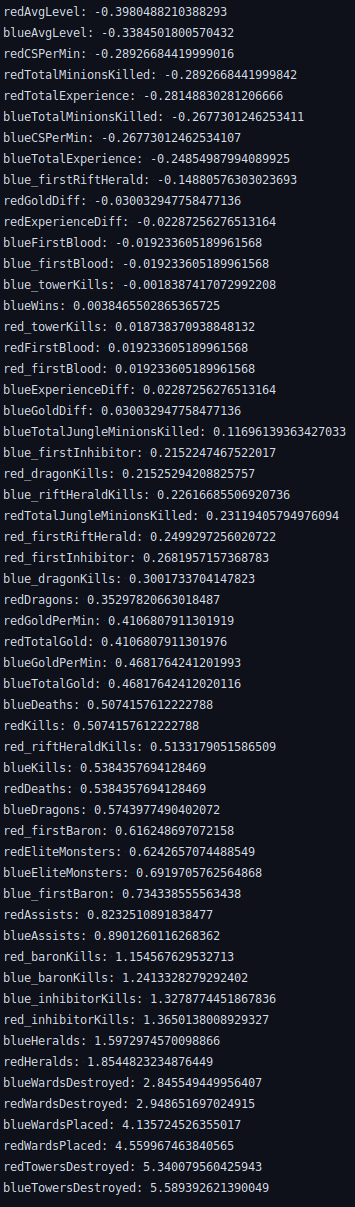
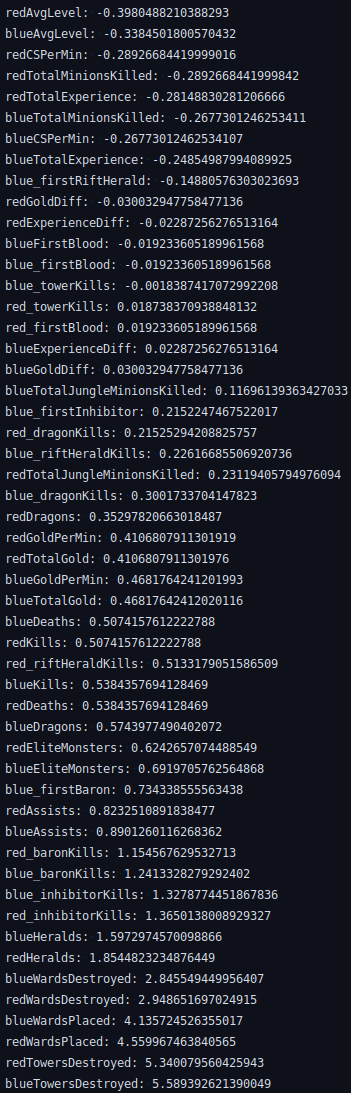
Apply MCA and PCA to reduce dimensions

diff --git a/Preprocessing.py b/Preprocessing.py
@@ -1,10 +1,16 @@
-from scipy.stats import skew
+from scipy.stats import skew, kurtosis
 
 import pandas as pd
 
 from sklearn.preprocessing import RobustScaler
 
+from sklearn.decomposition import PCA
+
+from prince import MCA
+
 import Champion
+
+import numpy as np
 
 
 def preprocess(df):
@@ -17,36 +23,84 @@ def preprocess(df):
 
     target = df['blueWins']
 
-    df.drop('blueWins', axis=1, inplace=True)
+    df.drop(['blueWins', 'redWins'], axis=1, inplace=True)
 
     for col in champ_cols:
         df[col] = Champion.get_champions(list(df[col].values))
+
     removal_list = set()
+
     for champ_col in champ_cols:
 
         for key, value in df[champ_col].value_counts(ascending=False).to_dict().items():
-            if value < 10:
+            if value < 80:
                 for i in range(10):
                     removal_list.add('ban_{}_{}'.format(i, key))
                 for i in range(5):
                     removal_list.add('blue_champ_{}_{}'.format(i, key))
                     removal_list.add('red_champ_{}_{}'.format(i, key))
 
-    encoded_df = pd.get_dummies(drop_first=False, columns=champ_cols, data=df)
+    numerical_cols = [i for i in df if df[i].dtype in ['int16', 'int32', 'int64', 'float16', 'float32', 'float64']]
+    
+    #evaluate_dist(df, numerical_cols)
 
-    print(encoded_df.shape)
-
-    encoded_df = encoded_df[encoded_df.columns[~encoded_df.columns.isin(removal_list)]]
-
-    print(encoded_df.shape)
+    cols_to_be_transformed = ['blueWardsDestroyed', 'redWardsDestroyed',
+                              'blueWardsPlaced', 'redWardsPlaced',
+                              'redTowersDestroyed', 'blueTowersDestroyed']
+    
+    for col in cols_to_be_transformed:
+        df[col] = np.log1p(df[col])
+        
+    #evaluate_dist(df, cols_to_be_transformed)
 
     df_for_scale = df[df.columns[~df.columns.isin(champ_cols)]]
 
     scaler = RobustScaler()
+    scaled_data = scaler.fit_transform(df_for_scale)
+    pca = PCA(.95)
+    pcs = pca.fit_transform(scaled_data)
 
-    scaled_df = pd.DataFrame(scaler.fit_transform(df_for_scale), columns=df_for_scale.columns)
+    pca_df = pd.DataFrame(pcs, columns=['PC_{}'.format(i) for i in range(np.size(pcs, 1))])
 
-    for col in scaled_df:
-        encoded_df[col] = scaled_df[col]
+    champ_df = df[df.columns[df.columns.isin(champ_cols)]]
+    champ_select_df = champ_df[champ_cols[:10]]
+    champ_ban_df = champ_df[champ_cols[11:]]
 
-    return encoded_df, target
+    mca_ban = MCA(n_components=5)
+    mca_select = MCA(n_components=3)
+
+    ban_mca = mca_ban.fit_transform(champ_ban_df)
+    select_mca = mca_select.fit_transform(champ_select_df)
+
+    ban_mca.columns = ['MCA_Ban_{}'.format(i) for i in range(np.size(ban_mca, 1))]
+    select_mca.columns = ['MCA_Select_{}'.format(i) for i in range(np.size(select_mca, 1))]
+
+    reduced_df = pd.concat([ban_mca, select_mca, pca_df], axis=1)
+
+    print(reduced_df)
+
+    return reduced_df, target
+
+
+def evaluate_dist(df, cols):
+    champ_cols = ['blue_champ_1', 'blue_champ_2', 'blue_champ_3', 'blue_champ_4', 'blue_champ_5',
+                  'red_champ_1', 'red_champ_2', 'red_champ_3', 'red_champ_4', 'red_champ_5', 'ban_1',
+                  'ban_2', 'ban_3', 'ban_4', 'ban_5', 'ban_6', 'ban_7', 'ban_8', 'ban_9', 'ban_10']
+    kurtosis_results = dict()
+    skewness = dict()
+
+    for i in cols:
+        if i not in champ_cols:
+            kurtosis_results[i] = kurtosis(df[i])
+            skewness[i] = skew(df[i])
+    
+    kurtosis_results = {k: v for k, v in sorted(kurtosis_results.items(), key=lambda item: item[1])}
+    skewness = {k: v for k, v in sorted(skewness.items(), key=lambda item: item[1])}
+
+    print('Skewness:\n')
+    [print("{}: {}".format(i, skewness[i])) for i in skewness]
+
+    print('\nKurtosis:\n')
+    [print("{}: {}".format(i, kurtosis_results[i])) for i in kurtosis_results]
+
+    print("\n\n")

diff --git a/machine_learning/XGBoost.py b/machine_learning/XGBoost.py
@@ -15,9 +15,10 @@ def run_xgboost(df, target):
         'n_jobs': [-1]
 
     }
-    model = XGBClassifier(tree_method='gpu_hist', gpu_id=0)
+
+    model = XGBClassifier(tree_method='gpu_hist')
     grid = GridSearchCV(estimator=model, param_grid=params, cv=5, verbose=3, scoring='accuracy')
-    
+
     grid.fit(df, target)
     print(grid.best_params_)
     with open('Data/pickles/xgboost_model', 'wb') as file:

diff --git a/README.md b/README.md
@@ -212,11 +212,54 @@ I would first like to try removing a certain amount of champions that are hardly
 ##### After One Hot Encoding  
 ![image](Charts/beforeChampReduction.png)
 
-##### After Removing champions selected < 15 times
+##### After Removing champions selected < 15 times  
 ![image](Charts/AfterChampReduction.png)
 
 So not bad, but the dimensionality is still really high. I may just try it anyways to see if PCA improves our results or worsens.
 
+## Reducing Dimensionality  
+
+After 3 days of training, I decided that the dimensions of the data were too high to continue and required research on how to handle this situation.
+
+I began by looking into Logistic PCA, but unfortunately there are no Python packages for that. I would've made one myself had I known Linear Algebra (haven't taken that course yet, but soon I will)
+
+I then looked into MCA, which deals with nominal values in data. I read some papers to grasp an understanding of Multiple Correspondence Analysis and decided this would be my approach to reducing the dimensionality of my data.
+
+I plan to do a grid search on optimal components for MCA, but for now I am deciding to do 5 components for both champion selections (red and blue) and ban selections.
+
+On top of this, I will experiment with applying log1p and PCA to my continuous data related columns to see how that effects the accuracy.
+
+### After Applying MCA and PCA  
+My dataframe now has the dimensions of 9879 x 29. This is a considerable improvement and the training process should be much quicker now.
+
+### Normalizing Continuous Data
+Since PCA assumes Gaussian, I am going to apply log1p transformations to the features with high skew values.
+
+#### Skewness
+![image](Charts/skewness.png)
+
+The only features that will require transformations are blue/redWardsPlaced and blue/redTowersDestroyed.
+
+#### Kurtosis
+![image](Charts/Kurtosis.png)  
+The same features that are very skewed also have high kurtosis.
+
+#### After Log1p
+![image](Charts/AfterLog1p.png)  
+I would've liked blue/redTowers to be a little lower, but it should be OK.
+The log transformation helped lower the Kurtosis score, but outliers are still very present in towers destroyed. 
+
+This is fine though, as the reason for the outliers is that many times, no towers are destroyed within the first 10 min. That means that if one tower is destroyed, it is significant regarding whether a team wins or not.
+
 ## XGBoost Classifier
 
 Work in progress 
+
+# Sources
+
+[Multiple Corresdondence Analysis](https://www.researchgate.net/profile/Dominique_Valentin/publication/239542271_Multiple_Correspondence_Analysis/links/54a979900cf256bf8bb95c95.pdf) by Hervé Abdi & Dominique Valentin
+
+[Variable Extractions using Principal Components
+Analysis and Multiple Correspondence Analysis for
+Large Number of Mixed Variables Classification
+Problems](https://s3.amazonaws.com/academia.edu.documents/50782331/GJPAM_Published.pdf?response-content-disposition=inline%3B%20filename%3DVariable_Extractions_using_Principal_Com.pdf&X-Amz-Algorithm=AWS4-HMAC-SHA256&X-Amz-Credential=ASIATUSBJ6BAG7F36CVX%2F20200530%2Fus-east-1%2Fs3%2Faws4_request&X-Amz-Date=20200530T070022Z&X-Amz-Expires=3600&X-Amz-SignedHeaders=host&X-Amz-Security-Token=IQoJb3JpZ2luX2VjEKX%2F%2F%2F%2F%2F%2F%2F%2F%2F%2FwEaCXVzLWVhc3QtMSJHMEUCIQD3gSoTHQ63nANvvqMflElvp2TbA9R7XSTkFbbPulMQ6QIgQgPJBUDeT5o%2BJsw5Pc7J7jWr4s38dLlCHw%2B1a8XY%2BAMqvQMI%2Fv%2F%2F%2F%2F%2F%2F%2F%2F%2F%2FARAAGgwyNTAzMTg4MTEyMDAiDKwvShduLVGpTOEQUSqRA4XRIgf7eWeKKhYlHQzWolE5Vk1g9dfu73310GIKNjPIPqN5ocYMMnsJJkSPha4Cpbab41m6x3hIxjstzVkMBf8qa65WEE7vJA%2BWtPfntmgNieznvvb8fdEiEPjjwmHlFbbRDVw8WVboG5CvCBV2En1f3Audu1%2BVvOr3x6wfS1uJSQVPjYFP2cXkIr3wIJBDhqjWQZfl36pNHR%2BU2z5pTrn8jgQ0lgkiw%2Bnp01hJqnc3CsteBLcES5J1TgfPkBnBF2VfQECRuYejOkzyhq%2F8fsvP%2BIbEisjuzDiTgHqeWwIs%2BCXlZsiJLR1OK2iEd2hMl0gzUDXxl2yoqmkpv83AUchh%2BtORGjTJE7yA26MSX57aqeGZz%2Fqf1kj4Hj8pW4B7%2FUUcPXhpQ5ryDYKzyYtULzDCRQpif%2FjBUr1bZFj48jeIUY5bppEvyGsF8YJ5YiAS13jRysxz7FPG8XjoQm8%2BR84uYJqLsbNhBb0N3XMrisJ89er2DOg8iuoMH%2FWWBXIsdRjkFymb75xItgLipBEbFZqfMJLFx%2FYFOusBGpR9%2BtvXEK4vPfs95BDFzEu8kGK4pgB1M9PqxJPY9SzATCWo3%2FD3MDRC3OjWwbyZkhtYvehnipLldJwwjXNZAoQ%2BHJ2lwX8G8ZZMVvLkHb1Hp8WKhhOs4qEbaYrzbLgwi0UucN4yRw1Doi6BADo8k4fgZ1n5sVM0mH6mzPNpos%2BSuzm0lrVVd4SEQB1X7%2FEdiagrGzurSiVpMtCynpZzWnlKqWz10AcJS81KhZoLY%2FLbQiPWeutHOSZNvLVRzesqIx6wWoNliRH1yndEJhFC95IAuTT6fGphp6OFVACauf84tYzx5WMMYF0Csg%3D%3D&X-Amz-Signature=1365def7559093df3d23d4dae2e967cefb5f825fc808e02bc5095d18acc89b1d) by Hashibah Hamid, Nazrina Aziz, and Penny Ngu Ai Huong
